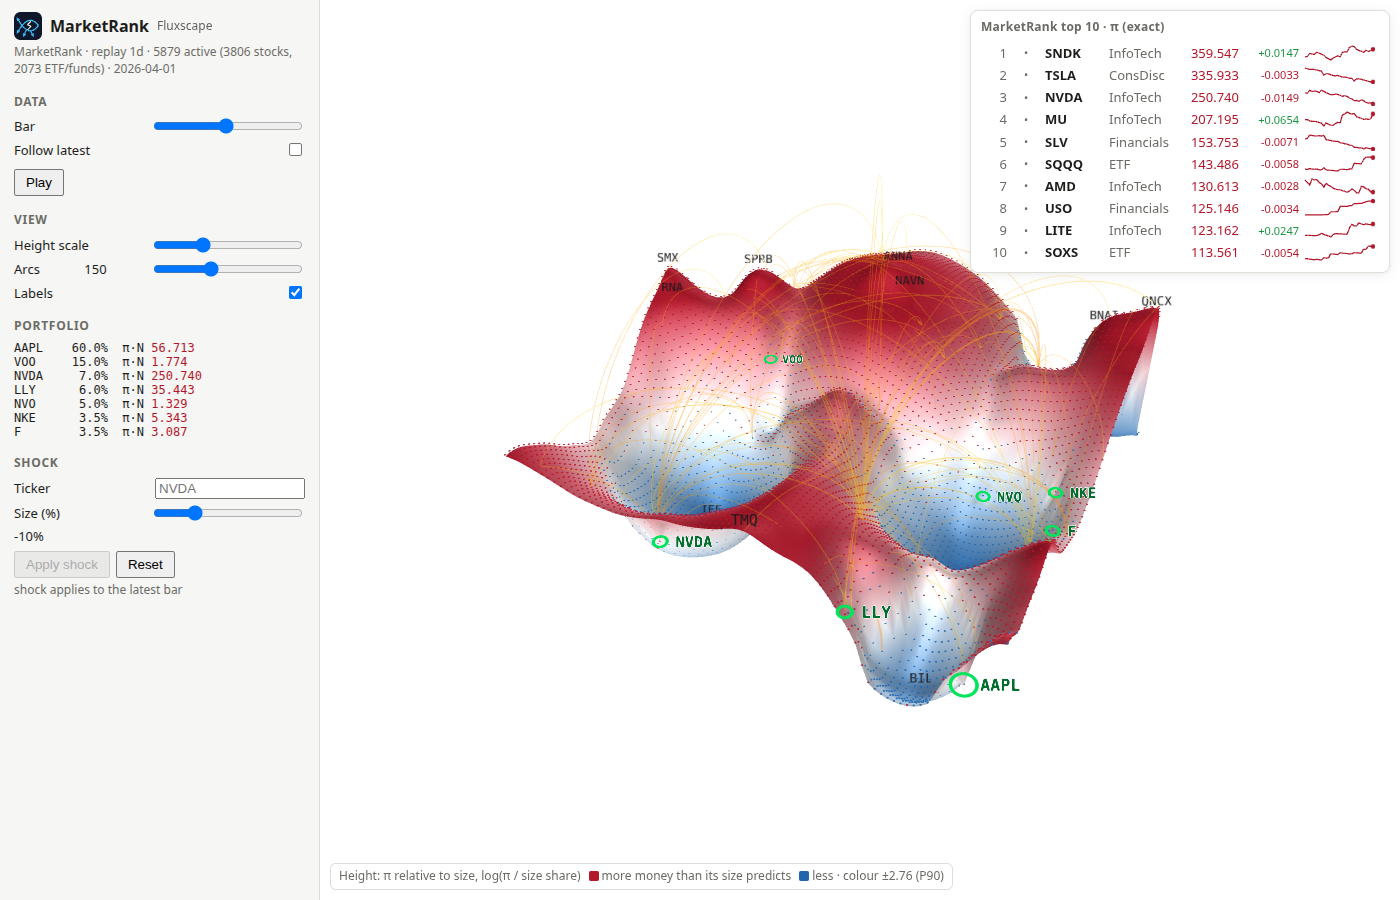
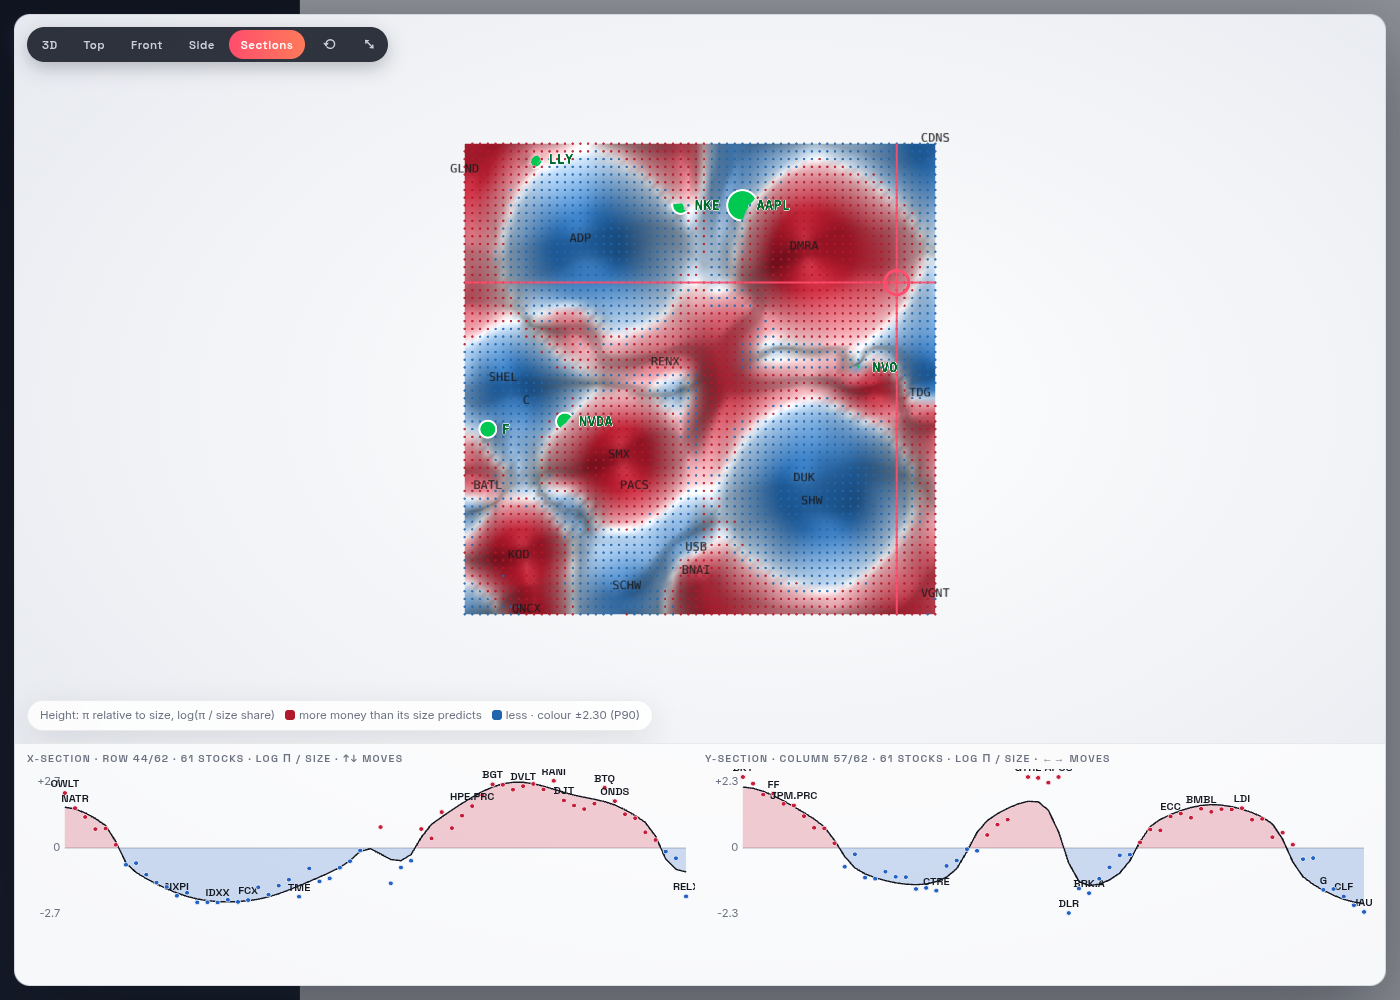
paper, README: figures from the current UI; the view section; chain-centred framing
New full-interface figure (default Sections view, exact table, tracked paths,
transition graph), a transition-graph close-up, and the time-lapse re-shot in
the Sections view with per-bar 20-bar re-clustering (text, community table and
sector NMI recomputed from those frames). A new subsection describes the view
and the local chain (edge hover = transition probability P_ji). Abstract and
conclusion name learned connectivity of the chain as the next step.

diff --git a/paper/marketrank.tex b/paper/marketrank.tex
@@ -64,7 +64,7 @@ Every trading day, money leaves some stocks and moves into others. \MR\ asks whe
 
 Who sold what to buy what is not public, so the flows are \emph{estimated} from daily prices and volumes with a correlation-tilted gravity model, in a deterministic parallel C++ engine. On a universe of 10{,}000 US stocks and ETFs, the ranking is led by the large semiconductor and technology names, and estimated flows stay within a sector more often than chance. The level of the score, however, does not predict next-day returns: it shows where money sits, not where prices go next. A 3D landscape view, \FS, turns the ranking into terrain: Louvain communities of the recent flow graph, re-clustered on every bar, become territories, ordered by recursive spectral bisection along a generalized Hilbert curve, interpolated by inverse-distance weighting, smoothed by a centroidal-Voronoi-style relaxation with portfolio holdings pinned to their exact values, and rendered as a Gouraud-shaded mesh. The surface is for reading trends; the exact ranked table remains the reference.
 
-The practical question is whether MarketRank can improve real portfolio moves, and we answer it with tests fixed in advance. First, a ten-year walk-forward: step through 2016--2026 week by week, decide each week's moves using only past data, and ask whether following MarketRank beats simply holding the current portfolio after trading costs. It does not. Every configuration lost 3--5\% a year against buy-and-hold, and the one persistent effect, a short-term reversal in which today's hottest names do slightly worse, is statistically real but economically small. Second, we compare the estimated flows with \emph{observed} ones: the quarter-to-quarter holding changes of every institutional manager reporting to the SEC on Form 13F, 39 quarters and 4,000--9,000 managers each. The estimate knows roughly \emph{which} stocks send and receive money and a little about \emph{when}, but nothing about \emph{who pairs with whom} beyond those totals, and plain trading volume ranks the observed destinations better than the estimated score does. Third, the flow communities that shape the landscape are re-clustered from scratch on every bar and measured: they persist only about as long as the flow window that defines them. The conclusion is that public daily bars carry size and a little timing, not pairing; better flow data, not a better solver, is the next step.
+The practical question is whether MarketRank can improve real portfolio moves, and we answer it with tests fixed in advance. First, a ten-year walk-forward: step through 2016--2026 week by week, decide each week's moves using only past data, and ask whether following MarketRank beats simply holding the current portfolio after trading costs. It does not. Every configuration lost 3--5\% a year against buy-and-hold, and the one persistent effect, a short-term reversal in which today's hottest names do slightly worse, is statistically real but economically small. Second, we compare the estimated flows with \emph{observed} ones: the quarter-to-quarter holding changes of every institutional manager reporting to the SEC on Form 13F, 39 quarters and 4,000--9,000 managers each. The estimate knows roughly \emph{which} stocks send and receive money and a little about \emph{when}, but nothing about \emph{who pairs with whom} beyond those totals, and plain trading volume ranks the observed destinations better than the estimated score does. Third, the flow communities that shape the landscape are re-clustered from scratch on every bar and measured: they persist only about as long as the flow window that defines them. The conclusion is that the Markov solver is sound but its transition probabilities are only as good as the connectivity fed into it: public daily bars carry size and a little timing, not pairing. The next step learns the chain's connectivity, who funds whom, directly from market behaviour.
 \end{abstract}
 
 \begin{keyword}
@@ -297,11 +297,26 @@ Raw $\pi$ is dominated by size, since the largest names carry the largest flows.
 
 \subsection{Gouraud-shaded mesh}
 \label{Section:gouraud}
-Each lattice quad is split into two triangles with a fixed index buffer, so per frame only the vertex heights change. Vertex colours come from a diverging map symmetric around 0 (red for inflow, blue for outflow), scaled robustly by the 90th percentile of $|z|$ and soft-clipped by $\tanh$, and each triangle is Gouraud-shaded~\cite{gouraud} with relief lighting. The strongest flux arcs and the user's portfolio are drawn on top. Portfolio holdings are \emph{pinned}: during CVT smoothing their vertices are held at their exact values (a Dirichlet constraint), so the surface passes exactly through each holding while every other vertex is smoothed. On the real 2026-10-01 frame the measured gap between each holding's exact value and the surface is at most $4\cdot10^{-8}$, which is float rounding.
+Each lattice quad is split into two triangles with a fixed index buffer, so per frame only the vertex heights change. Vertex colours come from a diverging map symmetric around 0 (red for inflow, blue for outflow), scaled robustly by the 90th percentile of $|z|$ and soft-clipped by $\tanh$, and each triangle is Gouraud-shaded~\cite{gouraud} with relief lighting. The user's portfolio is drawn as screen-facing dots at the holdings' own surface vertices, depth-tested with the terrain so that they move with it. Portfolio holdings are \emph{pinned}: during CVT smoothing their vertices are held at their exact values (a Dirichlet constraint), so the surface passes exactly through each holding while every other vertex is smoothed. On the real 2026-10-01 frame the measured gap between each holding's exact value and the surface is at most $4\cdot10^{-8}$, which is float rounding.
 
 \paragraph{A fixed interface} The web interface has no model or landscape options. Its settings are fixed defaults: the \MR\ preset, height $\log(\pi/s)$, flux-community territories, the CVT smoother (12 iterations, $\lambda=0.6$) and subdivision 1. The exact sorted $\pi$ table is the truth; the surface is for the eye and the trend. Developer options remain on the command line and the HTTP API.
 
 %% ------------------------------------------------------------------
+\subsection{The view: sections, paths and the chain around a stock}
+\label{Section:view}
+The interface (Figure~\ref{Figure:landscape}) is built around the chain rather than the picture. The default \emph{Sections} view shows the landscape from above with a crosshair; two profile charts cut the surface along the crosshair's row and column and plot every stock on the cut at its exact value, so a hill can be read stock by stock. Orthographic top, front and side views and a perspective 3D view are one click away, and every panel can be expanded to the full screen. The exact ranked table stays beside the landscape at all times.
+
+Any stock can be \emph{tracked}, from the table or by typing its ticker. Its path over the whole cached history is drawn as $\log(\pi/s)$ per bar with a cursor at the displayed bar; dragging the chart scrubs the whole view through time, and several stocks share one chart. A strip under the path colours each bar by the stock's flux community, which makes the churn of Table~\ref{Table:persist} visible stock by stock.
+
+The \emph{transition graph} of the tracked stocks is the chain itself, seen locally (Figure~\ref{Figure:flowgraph}). For every cached bar the server keeps each active stock's six strongest kept out-edges and six strongest in-edges of $P$; for the tracked stocks it returns them, their strongest partners and every stored edge among those partners. An arrow $j\to i$ is money that left $j$ for $i$; its width grows with the cumulative dollars, and its hover gives the transition probability $P_{ji}$, the share of $j$'s kept outflow that goes to $i$, which is exactly the term of Equation~(\ref{eqn:mrc}) through which $j$ passes its rank to $i$. The layout is a force-directed simulation (d3-force~\cite{d3}) whose node positions persist from bar to bar, so the local chain visibly re-wires as the displayed bar moves.
+
+\begin{figure}[!htbp]
+\centering
+\includegraphics[width=0.85\linewidth,trim=200 190 230 205,clip]{figs/flow-graph.png}
+\caption{The transition graph around MU and NVDA (large nodes) on 2026-10-01: their six strongest flow partners each and the 57 kept edges among the ten stocks. Arrows point from the stock money leaves to the stock it reaches; width grows with cumulative dollars, node size with $\log\pi N$. Dark edges touch a tracked stock; pale edges are context among the partners.}
+\label{Figure:flowgraph}
+\end{figure}
+
 \section{Results on real data}
 \label{Section:results}
 
@@ -369,8 +384,8 @@ ETFs are deliberately kept in the universe and in the graph, uncapped and unfilt
 
 \begin{figure*}[t]
 \centering
-\includegraphics[width=0.92\textwidth,keepaspectratio]{figs/fluxscape-final.png}
-\caption{\FS\ on the real 2026-10-01 bar: 6,188 active names (3,939 stocks and 2,249 ETF/funds), \MR\ preset. The surface is laid out in flux-community territories; its height is $\pi$ relative to size, $\log(\pi/s)$, CVT-smoothed, Gouraud-shaded on a red/blue diverging scale at P90 $\pm2.55$. Portfolio holdings (green rings) sit on the surface: their vertices are pinned to their exact values during smoothing. Labels are decluttered. The top-10 panel is the truth table: exact $\pi N$ with the heartbeat $\Delta\log(\pi N)$; the surface is for the trend. The lower-left plateau is a territory in which 87\% of the names are tied at the teleport floor, so their tiny size share makes $\log(\pi/s)$ high (Section~\ref{Section:limits}).}
+\includegraphics[width=\textwidth,keepaspectratio]{figs/fluxscape-ui.png}
+\caption{The \MR\ \FS\ interface on the real 2026-10-01 bar (6,188 active names: 3,939 stocks and 2,249 ETF/funds, which are in the chain but hidden from the surface by default), \MR\ preset. \emph{Centre:} the default Sections view, the landscape seen from above with a crosshair; height and colour are $\pi$ relative to size, $\log(\pi/s)$, on a red/blue diverging scale at P90 $\pm2.32$, and the two profile charts below cut the surface along the crosshair's row and column with every stock on the cut. Portfolio holdings are green dots pinned to their exact values. \emph{Right, top:} the truth table, the ten highest exact $\pi N$ with the heartbeat $\Delta\log(\pi N)$. \emph{Right, middle:} the tracked stocks (MU, NVDA) over the whole cached year, as $\log(\pi/s)$ per bar with a strip of each stock's flux community and a cursor at the displayed bar. \emph{Right, bottom:} the transition graph around the tracked stocks (Figure~\ref{Figure:flowgraph}).}
 \label{Figure:landscape}
 \end{figure*}
 
@@ -451,52 +466,55 @@ money-flow+volscale & 0.180 & 0.281 & 0.234 & 0.118 & 1.99\\
 \end{tabular}
 \end{table}
 
-\paragraph{Flux communities are not sectors} On the last bar the flux graph has 4 communities plus a loose pool of 22 names, with modularity 0.109; every one of the 245 landscape frames has exactly 4 communities, with median modularity 0.150. Against SEC sectors, over the 3,738 active, classified, non-ETF stocks outside the loose pool, the normalized mutual information is 0.0168 and the adjusted Rand index 0.0079, against a shuffled baseline of 0.0021 and 0.0005 (20 seeds). The agreement is above chance but negligible in absolute terms. Table~\ref{Table:comm} shows that each community's leading sectors track the universe base rates (Financials 18.9\%, Health Care 16.7\%, Industrials 16.3\%, IT 13.0\%) to within a few points; the strongest tilt is Industrials at 23\% in community 5. Restricted to the 1,580 off-floor stocks, NMI and ARI roughly double, to 0.028 and 0.015, which is still small. Money rotates across sector lines, and the partition probably reflects liquidity and flow regimes rather than industries. The territories therefore show structure that a sector map does not; we do not claim that they recover sectors.
+\paragraph{Flux communities are not sectors} On the last bar the 20-bar flow graph of the 3,939 placed stocks has 7 communities plus a loose pool of 4 names, with modularity 0.108. Against SEC sectors, over the 3,744 classified stocks outside the loose pool, the normalized mutual information is 0.034, against 0.004 for shuffled labels (20 seeds); the persistence study finds 0.03--0.04 on every flow window (Section~\ref{Section:louvain}). The agreement is above chance but negligible in absolute terms. Table~\ref{Table:comm} shows that each community's leading sectors stay within about ten points of the universe base rates (Financials 19.0\%, Health Care 16.7\%, Industrials 16.3\%, IT 13.0\%); the strongest tilts are Health Care at 32\% and Financials at 32\% in two of the smaller communities. Money rotates across sector lines, and the partition reflects recent flow regimes rather than industries. The territories therefore show structure that a sector map does not; we do not claim that they recover sectors.
 
 \begin{table}[t]
 \centering
-\caption{Flux communities on 2026-10-01. Size is all active members; the top-2 sector shares are among each community's classified non-ETF stocks (Fin.\ = Financials, Indust.\ = Industrials, IT = Information Technology).}
+\caption{Flux communities of the 20-bar flows on 2026-10-01 (ETF/funds hidden, the default). Size is the number of placed stocks; the top-2 sector shares are among each community's classified stocks (Fin.\ = Financials, Indust.\ = Industrials, IT = Information Technology).}
 \label{Table:comm}
-\footnotesize\setlength{\tabcolsep}{2.5pt}
-\begin{tabular}{rrrrll}
+\footnotesize\setlength{\tabcolsep}{3pt}
+\begin{tabular}{rrll}
 \toprule
-Comm. & Size & ETF & Stocks & Top-1 & Top-2\\
+Comm. & Stocks & Top-1 & Top-2\\
 \midrule
-3 & 2401 & 620 & 1697 & Fin.\ 21\% & Health 17\%\\
-5 & 1506 & 614 & 843 & Indust.\ 23\% & IT 17\%\\
-0 & 1231 & 720 & 484 & Indust.\ 19\% & Health 17\%\\
-1 & 1028 & 284 & 714 & Fin.\ 23\% & Health 17\%\\
-loose & 22 & 11 & 9 & Fin.\ 44\% & Staples 11\%\\
+157 & 1391 & Fin.\ 27\% & Indust.\ 17\%\\
+155 & 742 & Indust.\ 20\% & Health 18\%\\
+146 & 610 & Health 22\% & Indust.\ 16\%\\
+150 & 438 & Fin.\ 32\% & IT 20\%\\
+159 & 297 & Health 21\% & IT 20\%\\
+160 & 272 & Health 32\% & Fin.\ 14\%\\
+154 & 185 & Health 23\% & IT 14\%\\
+loose & 4 & -- & --\\
 \bottomrule
 \end{tabular}
 \end{table}
 
-\paragraph{Landscape} Figure~\ref{Figure:landscape} shows the real landscape on 2026-10-01 with flux-community territories, the strongest flux arcs and the portfolio holdings.
+\paragraph{Landscape} Figure~\ref{Figure:landscape} shows the interface on the real 2026-10-01 bar: the landscape in the default Sections view, the exact table, the paths of two tracked stocks and their transition graph.
 \begin{figure*}[t]
 \centering
 \begin{subfigure}[t]{0.49\textwidth}\centering
-\includegraphics[width=\linewidth,trim=330 120 0 0,clip]{figs/tl-1.png}
+\includegraphics[width=\linewidth,trim=15 15 15 15,clip]{figs/tl-1.png}
 \caption{2026-01-02}\label{Figure:tl1}
 \end{subfigure}\hfill
 \begin{subfigure}[t]{0.49\textwidth}\centering
-\includegraphics[width=\linewidth,trim=330 120 0 0,clip]{figs/tl-2.png}
+\includegraphics[width=\linewidth,trim=15 15 15 15,clip]{figs/tl-2.png}
 \caption{2026-04-01}\label{Figure:tl2}
 \end{subfigure}
 
 \medskip
 \begin{subfigure}[t]{0.49\textwidth}\centering
-\includegraphics[width=\linewidth,trim=330 120 0 0,clip]{figs/tl-3.png}
+\includegraphics[width=\linewidth,trim=15 15 15 15,clip]{figs/tl-3.png}
 \caption{2026-07-01}\label{Figure:tl3}
 \end{subfigure}\hfill
 \begin{subfigure}[t]{0.49\textwidth}\centering
-\includegraphics[width=\linewidth,trim=330 120 0 0,clip]{figs/tl-4.png}
+\includegraphics[width=\linewidth,trim=15 15 15 15,clip]{figs/tl-4.png}
 \caption{2026-10-01}\label{Figure:tl4}
 \end{subfigure}
-\caption{\FS\ time-lapse on four real bars about a quarter apart, \MR\ preset, height $\log(\pi/s)$, flux-community territories, holdings pinned to the surface (green rings). The control panel is cropped; each panel keeps its exact top-10 table. Active names: 5,645, 5,879, 6,142 and 6,188.}
+\caption{\FS\ time-lapse on four real bars about a quarter apart, in the default Sections view expanded to the full screen: \MR\ preset, height $\log(\pi/s)$, flux communities re-clustered from scratch on each bar from the 20-bar flows, holdings pinned (green dots), with the row and column profiles under each map. Active names: 5,645, 5,879, 6,142 and 6,188.}
 \label{Figure:timelapse}
 \end{figure*}
 
-\paragraph{Time-lapse} Figure~\ref{Figure:timelapse} shows the landscape on four dates about a quarter apart. On 2026-01-02 a single tall ridge in the upper left stands over a deep basin, and TSLA leads ($\pi N$ 454.3). By 2026-04-01 the relief is flatter, with broader lobes, and SNDK is on top. On 2026-07-01 two red masses stand with hollows between them; MU and SNDK lead, and SOXS enters the top 5. On 2026-10-01 the ridge in the upper left is back, joined by a large red dome on the right. The number of communities stays at 4 throughout, while modularity drifts down from 0.179 to 0.153, 0.123 and 0.109, so the partition is stable in count but grows weaker. The semiconductor and memory complex (MU, SNDK, NVDA, TSLA) stays at the top throughout while its order rotates: TSLA, NVDA, \dots, MU fifth in January; SNDK, TSLA, NVDA, MU in April; MU, SNDK, TSLA, NVDA in July; MU, SNDK, NVDA, TSLA in October. The holdings stay pinned to their exact values and rise and fall with the terrain.
+\paragraph{Time-lapse} Figure~\ref{Figure:timelapse} shows the landscape on four dates about a quarter apart. Because the communities are now re-clustered from scratch on each bar from the recent flows, the territories are re-drawn from panel to panel rather than carried over: there are 7 communities in January (modularity 0.176), 7 in April (0.145), 4 in July (0.108) and 7 in October (0.108). Weakening modularity means the recent flows split less cleanly into groups as the year goes on. The ranking of the chain is far steadier than the map. The semiconductor and memory complex leads throughout while its order rotates: TSLA ($\pi N$ 455.8), NVDA, AMD, BYND and MU in January; SNDK (361.9), TSLA, NVDA and MU in April, with SLV and SQQQ close behind; MU (387.4), SNDK, TSLA, NVDA and SOXS in July; MU (388.3), SNDK, NVDA, TSLA, SOXS and META in October. The holdings stay pinned to their exact values in every panel.
 
 \paragraph{Stability} An earlier version of the view warm-started Louvain from the previous partition and re-clustered only every 5 bars on the cumulative graph. Over 245 frames it kept 85\% of stocks in their cell between re-clusters and 74\% of community labels per re-cluster. That stability was largely produced by the algorithm and the cumulative graph, not by the market (Table~\ref{Table:persist}), and it made the map look more persistent than the flows are. The current view re-clusters from scratch on every bar on the 20-bar flows: territories now hold their shape for about a week and reorganize over a month, as the measurement predicts. The spiral ordering still keeps mountains and craters coherent within a territory (median Spearman correlation of value against distance from the centre 0.98 in the earlier measurement).
 
@@ -747,7 +765,7 @@ The 13F data therefore give no reason to change $\lambda$ or the pressure of the
 
 \paragraph{The landscape is honest about its limits} Re-clustered from scratch on every bar, the flux communities persist about as long as the flow window that defines them and are not sectors. The view now shows that churn instead of hiding it; the exact table remains the reference.
 
-\paragraph{What would change the answer} The negative results locate the bottleneck in the flows, not the solver: public bars carry size and a little timing, not pairing. Data that observe pairing more directly, such as ETF creation and redemption, signed intraday order flow and observed 13F edges mixed into $T$, are the next step, each to be re-tested with the same walk-forward harness and the same 13F nulls.
+\paragraph{What would change the answer} The negative results locate the bottleneck in the flows, not the solver: public bars carry size and a little timing, not pairing. The transition-probability graph remains the core of the method; what must improve is its connectivity. Two routes follow: \emph{learning} the connectivity end to end from market behaviour, so that the chain built on it minimizes the error of next-week return forecasts (a test now registered in advance with graph-free and identity controls), and data that observe pairing more directly, such as ETF creation and redemption, signed intraday order flow and observed 13F edges mixed into $T$, each to be re-tested with the same walk-forward harness and the same 13F nulls.
 
 \section*{Software availability}
 \MR\ is a C++20 program; the model, the evaluation harness and the \FS\ view described here are those of the current implementation.

diff --git a/README.md b/README.md
@@ -425,7 +425,7 @@ The blend windows are in rebalance periods: 156/1/104/52 weekly and 36/1/24/12 m
 scripts/ui_smoke.sh                                # headless-Chrome smoke test + screenshot (MODE=replay for real data)
 ```
 
-![Fluxscape on the real replay data, 1d bar of 2026-10-01](docs/img/fluxscape.png)
+![MarketRank Fluxscape on the real 2026-10-01 bar: Sections view, exact top 10, tracked paths and the transition graph](docs/img/fluxscape.png)
 
 The page shows a triangulated landscape of **π relative to size**: the height is log(π_i / s_i), where s_i is the stock's size share (trailing median dollar volume over the sum across active stocks, the size `HotRef::Size` uses). A hill attracts more money than its size predicts, a valley less, and 0 is exactly as predicted; stocks without a size get no height. Ranking and the table show π itself: the landscape is a reading aid, the table is the truth. Note that the many stocks at the teleport floor get the same π whatever their size, so small floor stocks read slightly above 0 here (a mild relief, not a signal). The same value orders the stocks inside each territory and decides mountain or crater. The legend under the landscape names the quantity.
 
